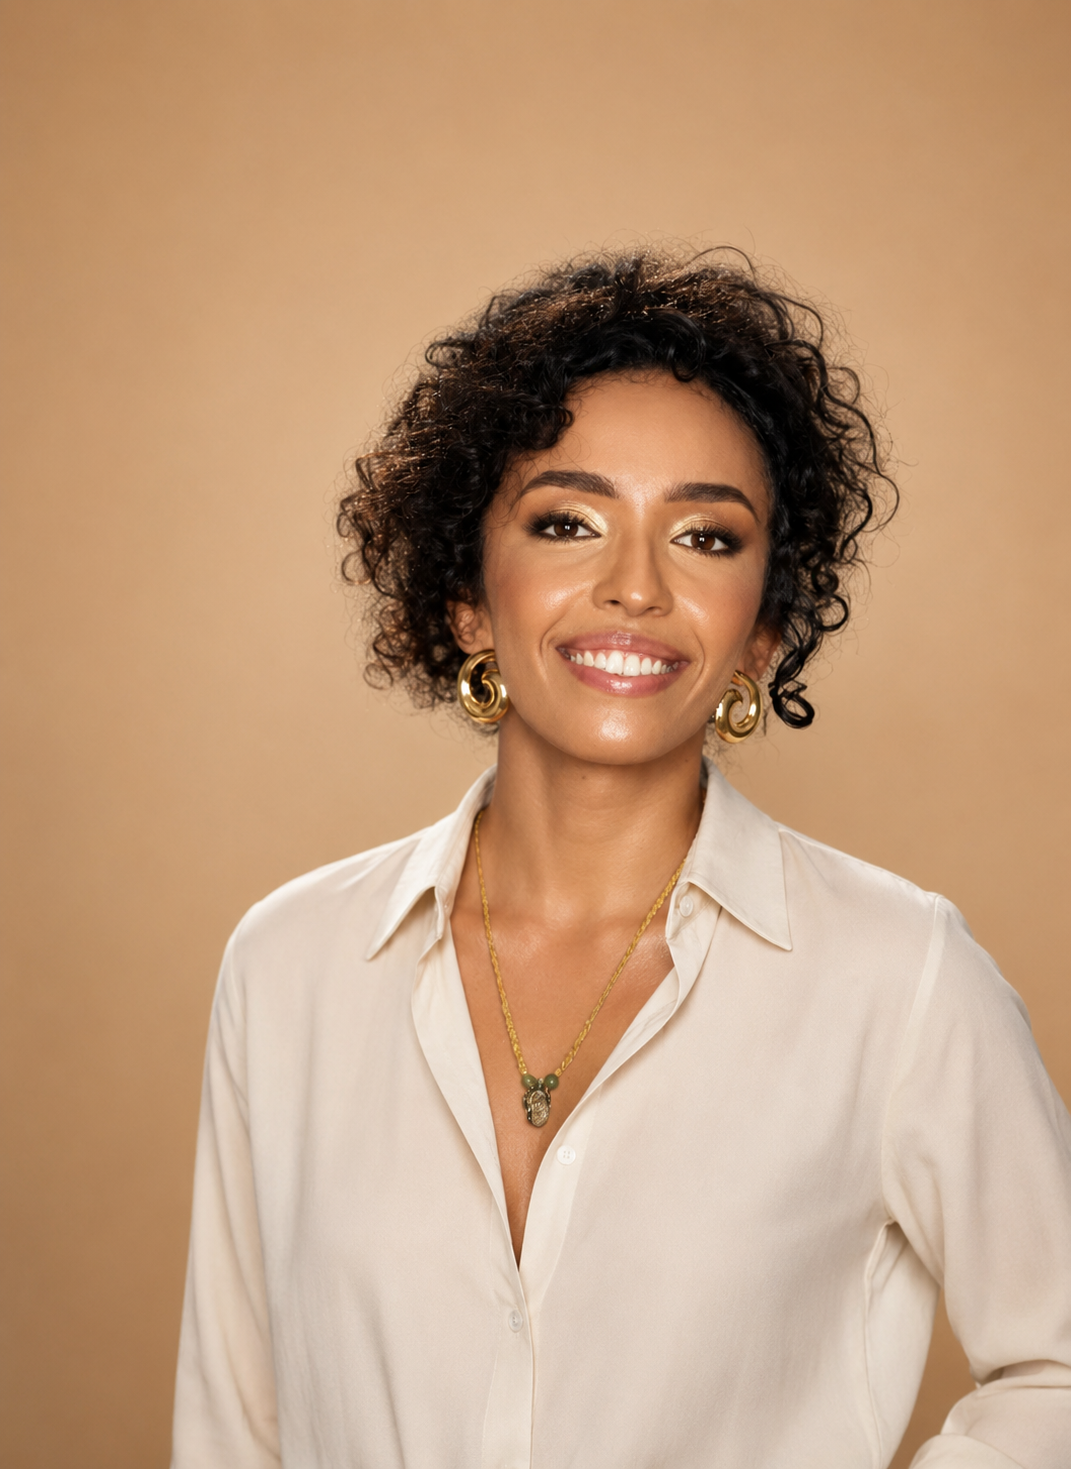
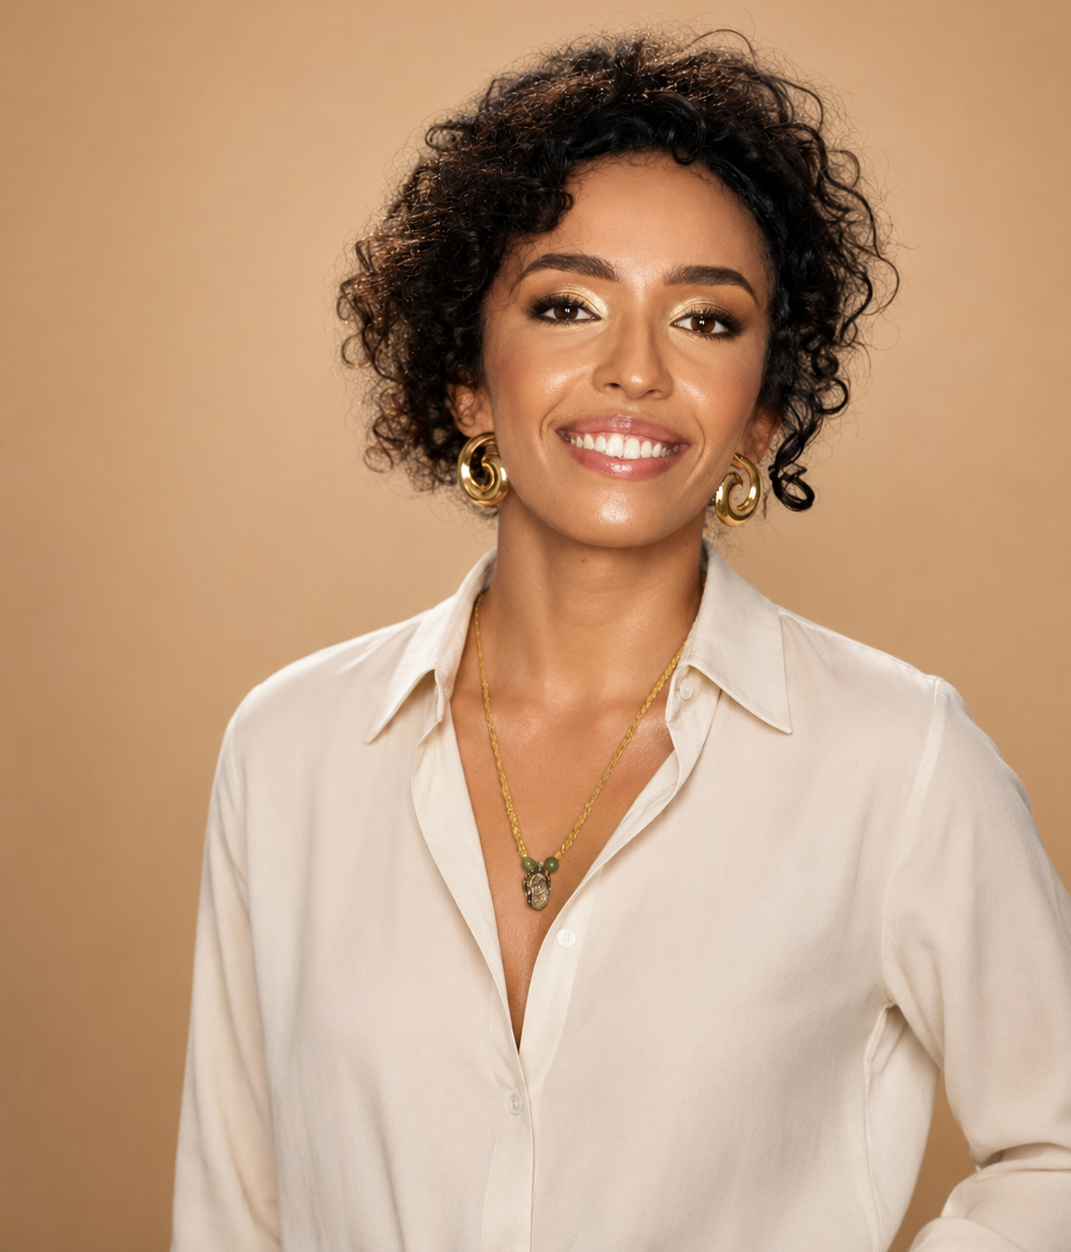
Modified README for professional upgrade, final try

Changed region(s): [[0.1541, 0.0, 1.0, 0.9034], [0.8011, 0.7476, 1.0, 0.9968], [0.6779, 0.623, 0.7395, 0.6542]]

diff --git a/README.md b/README.md
@@ -9,7 +9,7 @@
 
 *Operational Analyst ✦ Data Storytelling ✦ Insight Visualization*
 
-[![LinkedIn](https://img.shields.io/badge/LinkedIn-0A66C2?style=flat&logo=linkedin&logoColor=white)]((www.linkedin.com/in/fernandez-diana))
+[![LinkedIn](https://img.shields.io/badge/LinkedIn-0A66C2?style=flat&logo=linkedin&logoColor=white)](www.linkedin.com/in/fernandez-diana)
 [![GitHub](https://img.shields.io/badge/GitHub-181717?style=flat&logo=github&logoColor=white)](https://github.com/EstefaniaFernandez08)
 [![Email](https://img.shields.io/badge/Email-EA4335?style=flat&logo=gmail&logoColor=white)](mailto:[email redacted])
 